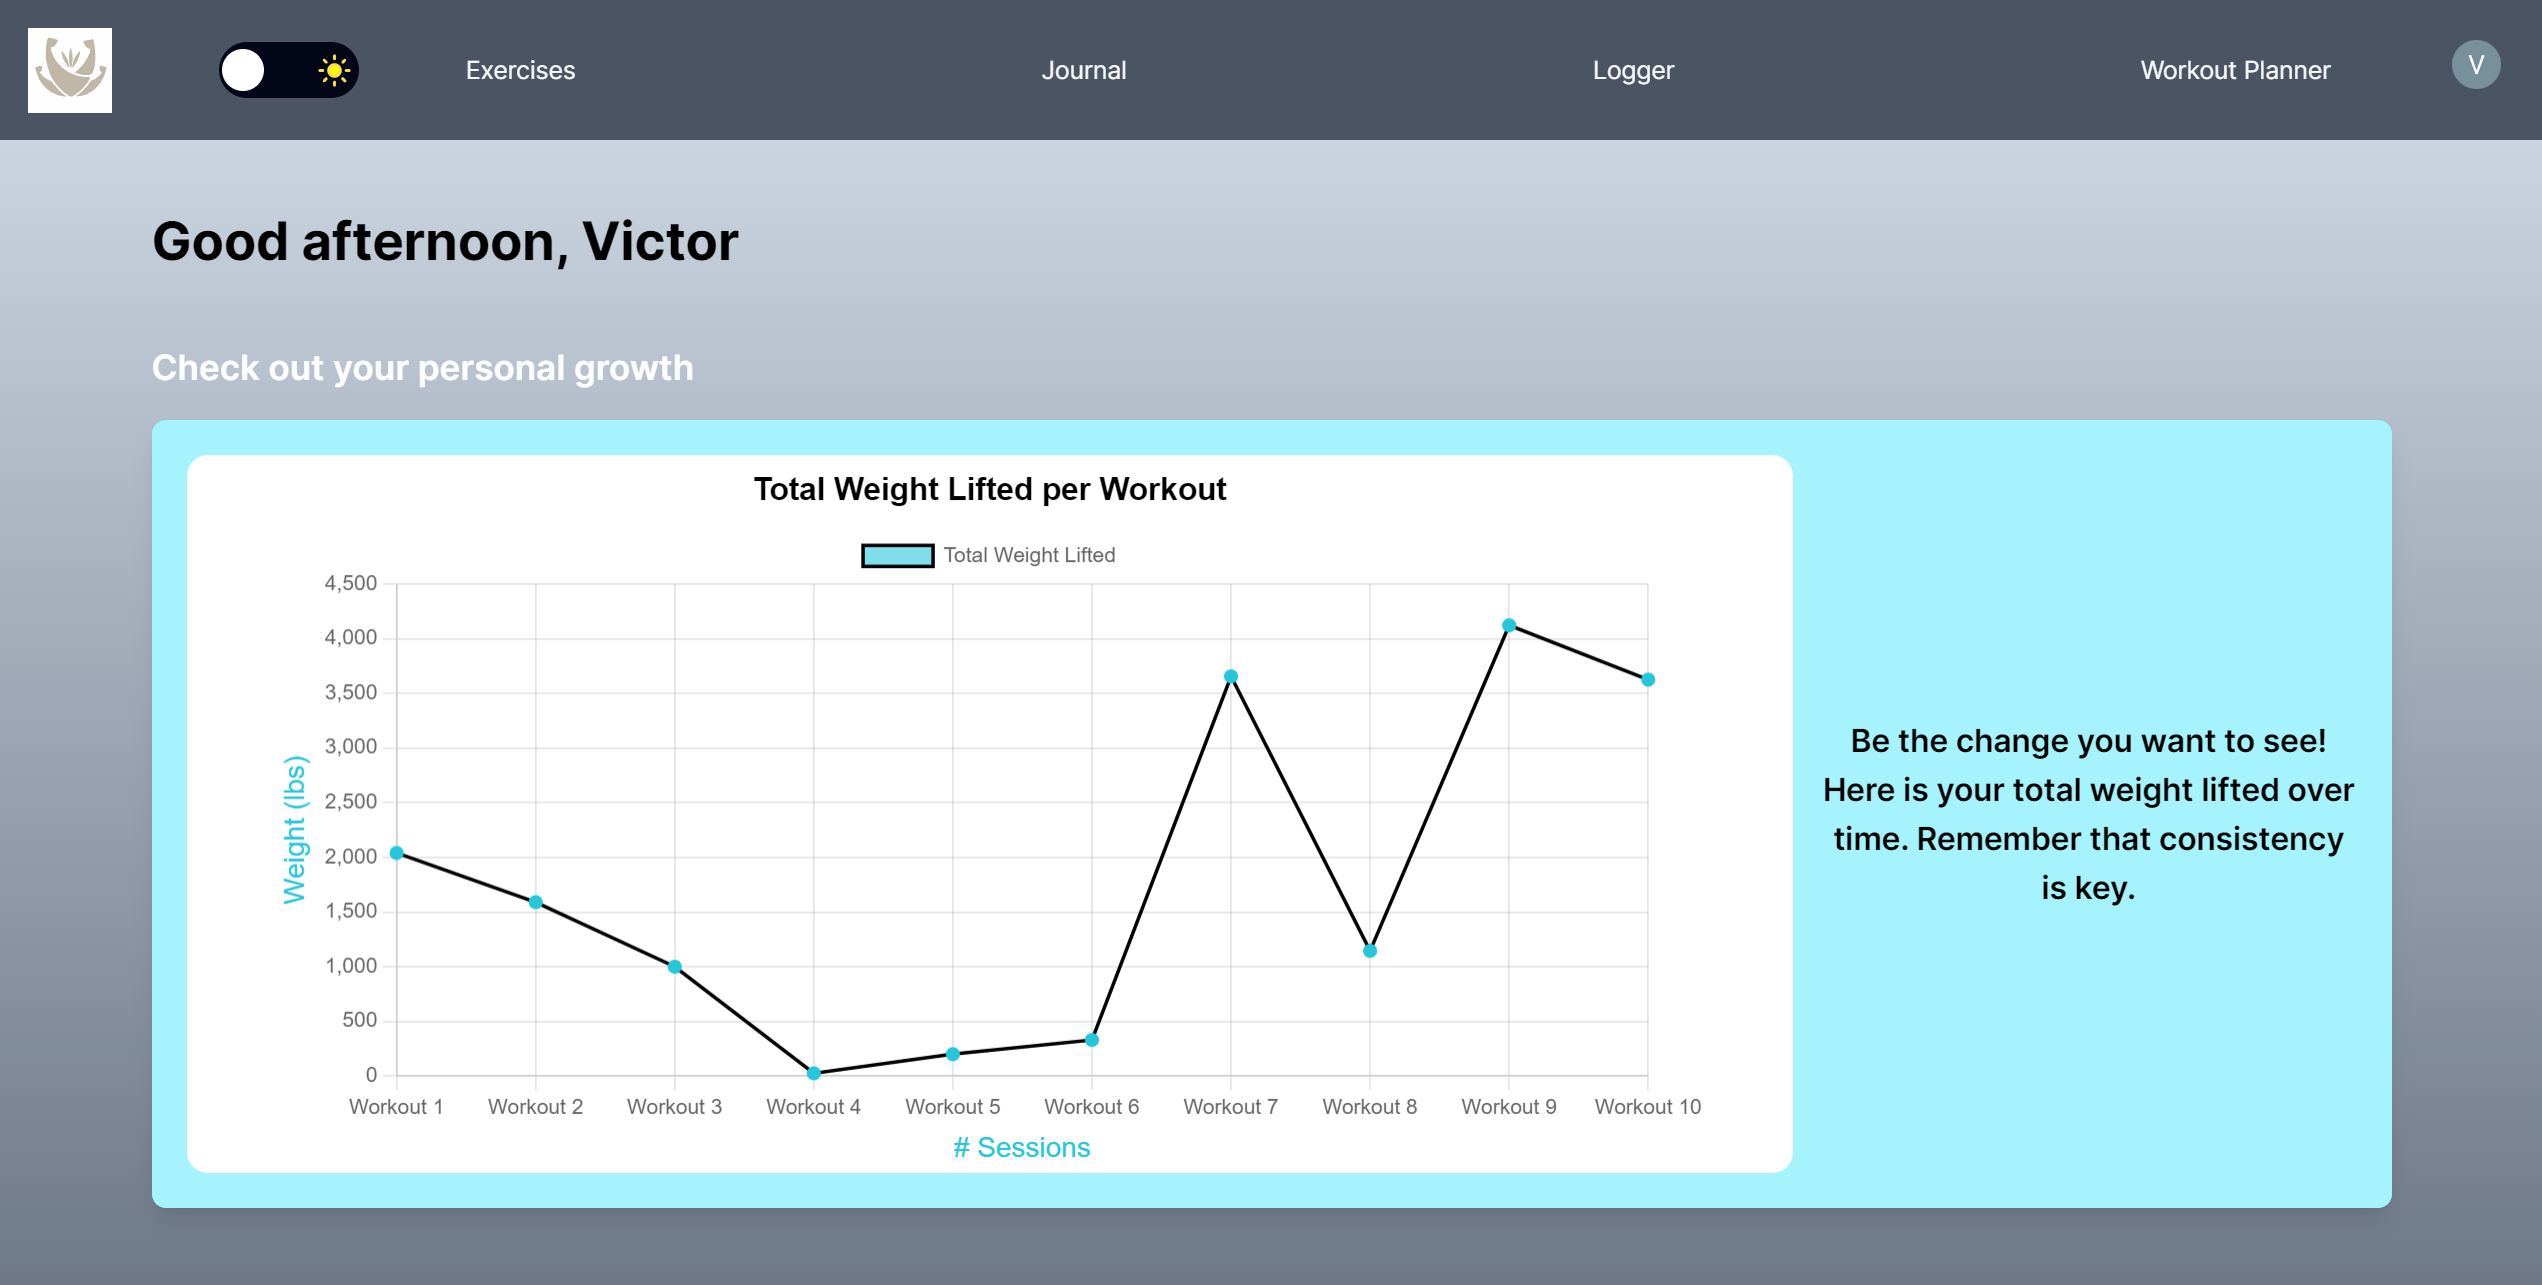
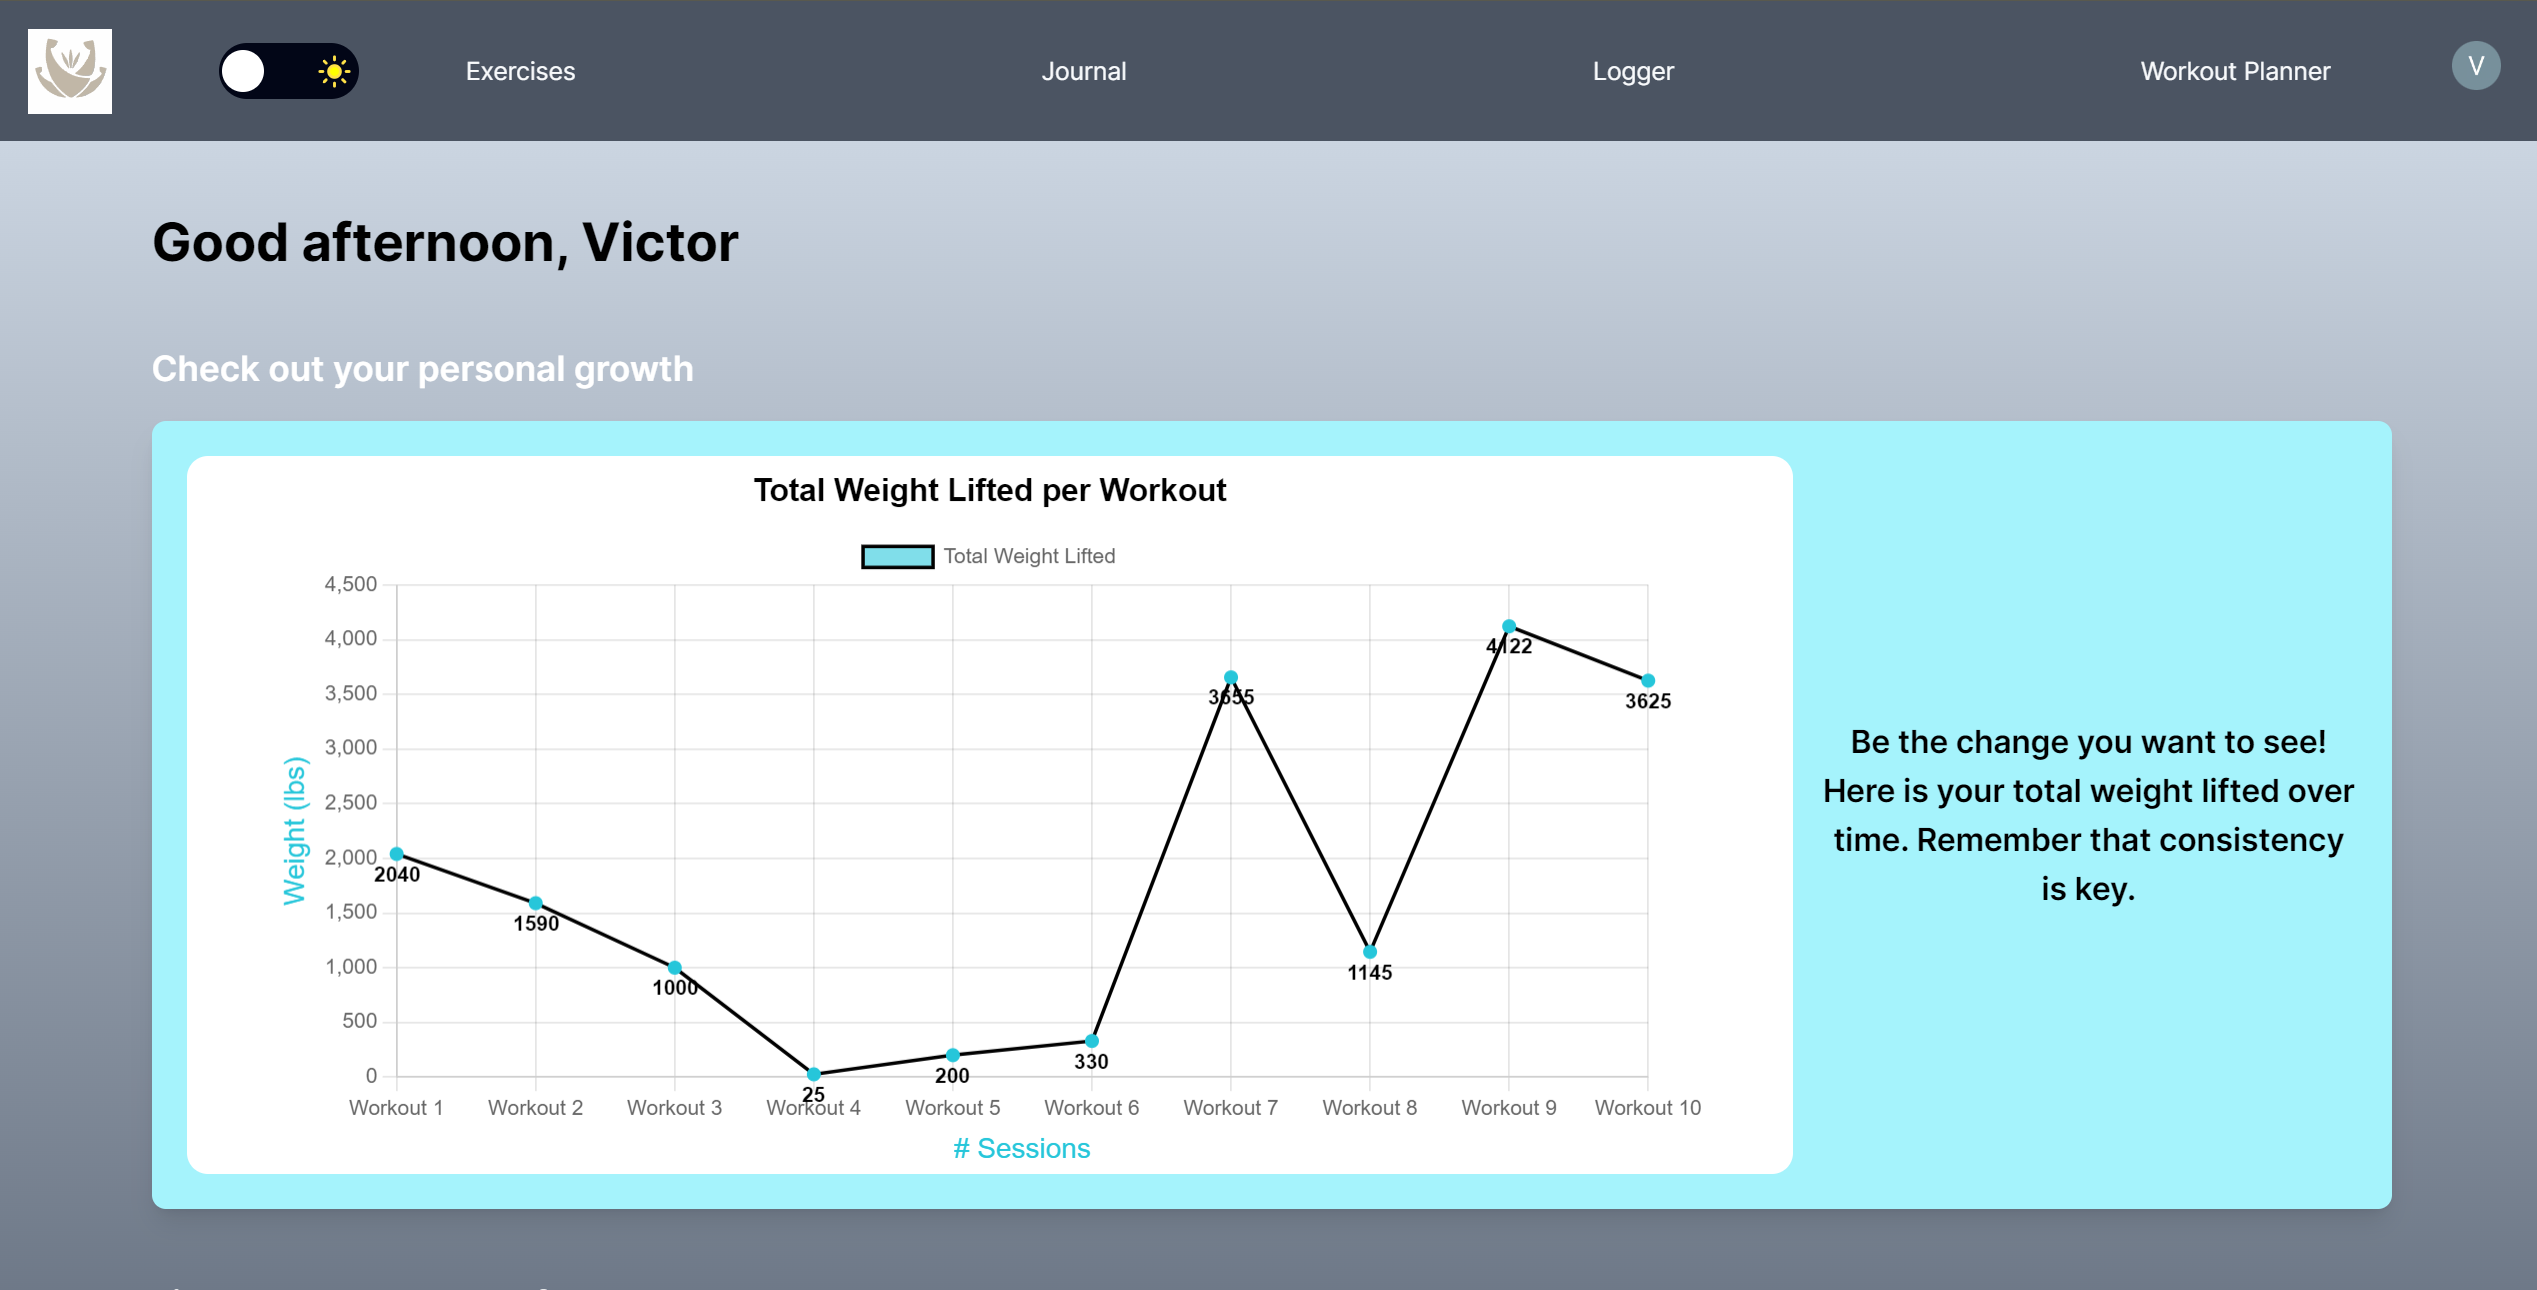
Fixed line chart labels, integrated dashboard w/pie graph, and added pictures

diff --git a/components/features/landingPage/PiePageSnippet.tsx b/components/features/landingPage/PiePageSnippet.tsx
@@ -1,0 +1,30 @@
+import Image from "next/image";
+
+const LinePageSnippet = () => {
+  return (
+    <div className="flex flex-col lg:flex-row">
+      <Image
+        src="/PieDemo.png"
+        alt="A pie chart showing top 10 more performed exercises and occurrences"
+        width={500}
+        height={500}
+        className="w-full shadow rounded-xl self-center p-2 m-2"
+      />
+      <p className="bg-slate-100 rounded-xl text-center shadow p-2 m-2">
+        This pie chart that displays the top 10 most performed exercises. Again,
+        by fetching data from an API endpoint, we collect the workout logs for
+        each user and analyze the frequency of each exercise. This information
+        helps users understand which exercises they perform the most, allowing
+        them to see their workout patterns and routines. Using chartjs 2 pie,
+        each exercise has a corresponding color and number associated with it's
+        frequency and type. It has a distinct color for each slice of pie and
+        allows for responsive design as the data/color is shown as a pop up when
+        hovering over a specific portion of the pie. Furthermore, a user can
+        choose what exercises to see by clicking on one of the choices from the
+        legend. This helps focus on specific workouts and their occurrences.
+      </p>
+    </div>
+  );
+};
+
+export default LinePageSnippet;

diff --git a/app/page.tsx b/app/page.tsx
@@ -2,6 +2,7 @@ import { SignInButton, SignUpButton } from "@clerk/nextjs";
 import AuthenticationButtonStyling from "@/components/common/authenticationButtonStyling";
 import ExercisePageSnippet from "@/components/features/landingPage/ExercisesPageSnippet";
 import LinePageSnippet from "@/components/features/landingPage/LinePageSnippet";
+import PiePageSnippet from "@/components/features/landingPage/PiePageSnippet";
 
 export default function Home() {
   return (
@@ -19,8 +20,13 @@ export default function Home() {
           <LinePageSnippet />
         </div>
         <div className="row-span-1 bg-cyan-400 p-4 shadow-lg rounded-lg">
-          Content 3
+          <PiePageSnippet />
         </div>
+      </div>
+      <div className="row-span-1 flex items-center justify-center w-full">
+        <h2 className="text-3xl font-bold text-center text-white">
+          Day One or One Day?
+        </h2>
       </div>
       <div className="row-span-1 flex justify-center p-5 w-full">
         <AuthenticationButtonStyling>

diff --git a/components/features/landingPage/LinePageSnippet.tsx b/components/features/landingPage/LinePageSnippet.tsx
@@ -9,6 +9,11 @@ const LinePageSnippet = () => {
         for each user and sum the total weight for each workout session to plot.
         Users can easily track their progress and trend in lifting performance,
         helping with setting future goals for reaching new personal records.
+        Using chartjs2, the total weight it shown as a popup while hovering over
+        a specific point and shows x and y labels to identify the data.
+        Furthermore, there are labels above the help display the total weight
+        thanks to the data labels plugin. The data is presented in visible way
+        to help distinguish between data points.
       </p>
       <Image
         src="/LineDemo.png"

diff --git a/components/common/LineChart.tsx b/components/common/LineChart.tsx
@@ -1,4 +1,5 @@
 import { Line } from "react-chartjs-2";
+import ChartDataLabels from "chartjs-plugin-datalabels";
 import {
   Chart as ChartJS,
   CategoryScale,
@@ -17,7 +18,8 @@ ChartJS.register(
   LineElement,
   Title,
   Tooltip,
-  Legend
+  Legend,
+  ChartDataLabels
 );
 
 type LineChartProps = {
